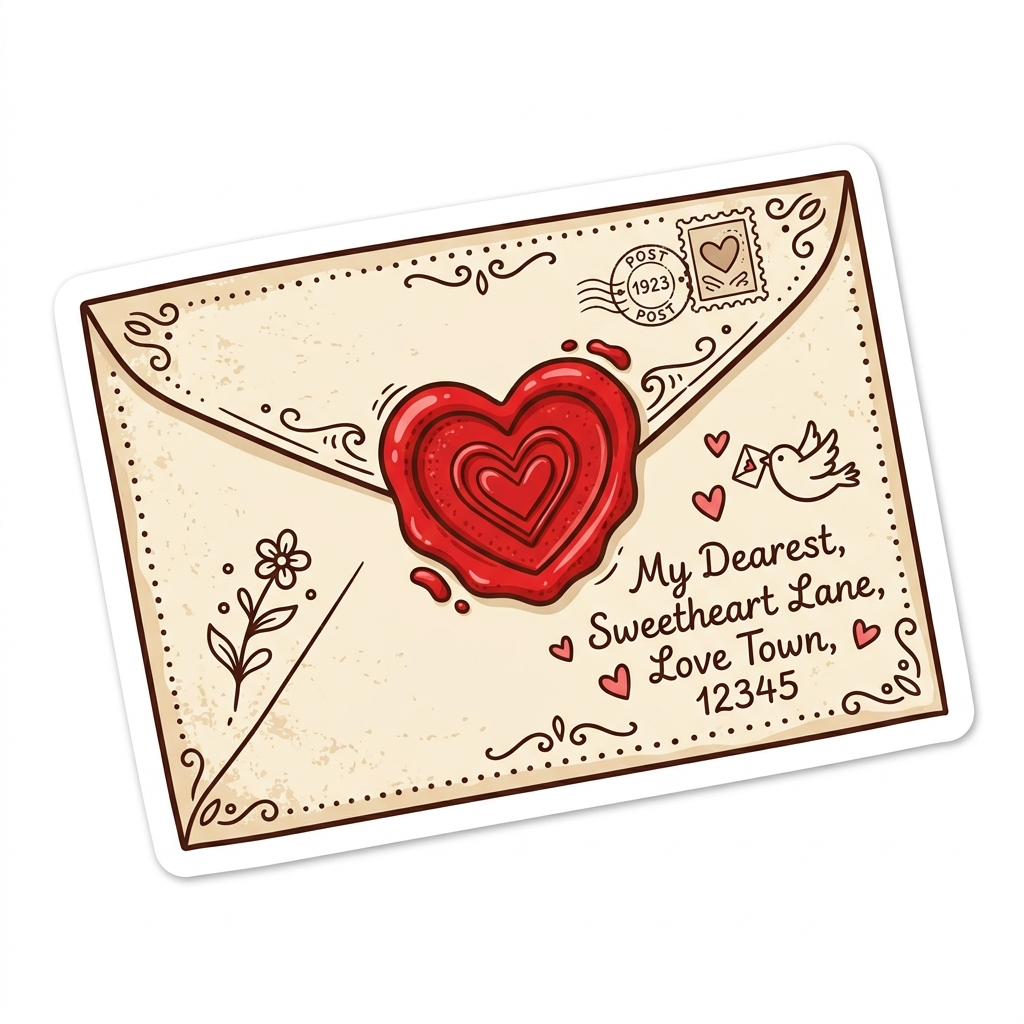
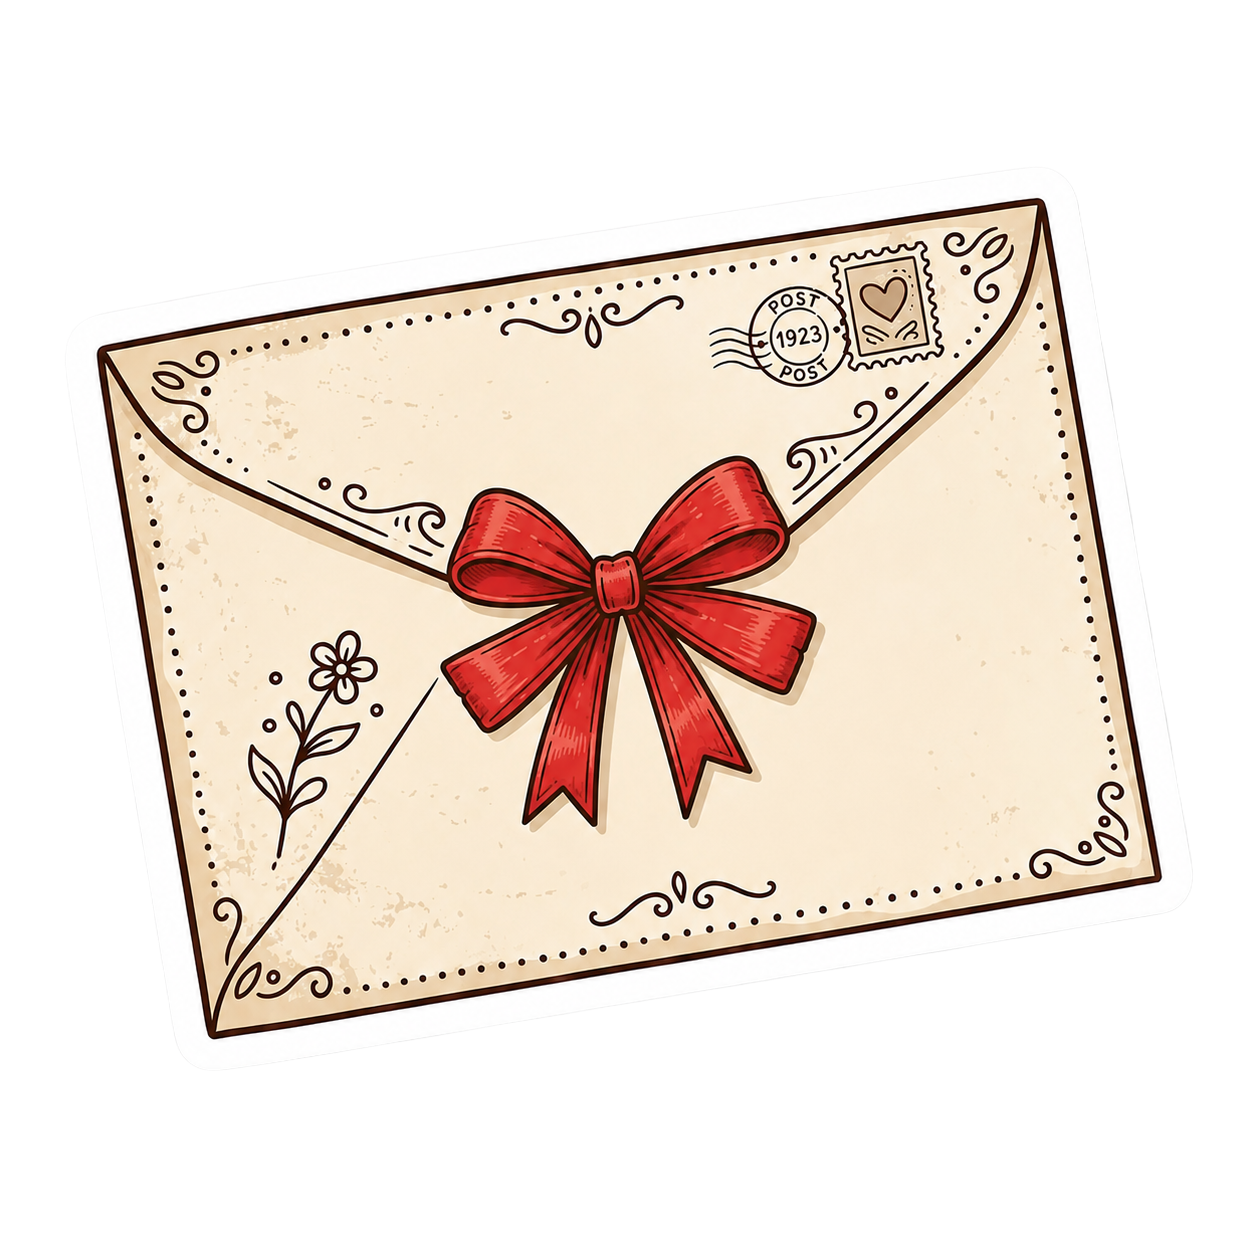
Add files via upload

Changed region(s): [[0.0625, 0.1562, 0.9688, 0.875], [0.2812, 0.7188, 0.3438, 0.75]]

diff --git a/index.html b/index.html
@@ -43,7 +43,7 @@
                 <!-- Added cat_flower sticker -->
                 <div class="welcome-sticker-wrapper bounce-animation">
                     <img src="assets/cat_flower.png" alt="Welcome Cat Flower" class="welcome-cat-sticker">
-                    <span class="tap-hint script-font">Tap meee!!</span>
+                    <span class="tap-hint script-font">Tap me!! I'll play ur fav song✨</span>
                 </div>
 
                 <div class="button-group">
@@ -87,7 +87,7 @@
                             <span class="dot" id="dot-2"></span>
                             <span class="dot" id="dot-3"></span>
                         </div>
-                        <p class="passcode-hint">Hint: Your birth date and month</p>
+                        <p class="passcode-hint">💡: When did you arrive on Earth?</p>
 
                         <!-- Numeric Keypad -->
                         <div class="keypad">
@@ -148,7 +148,7 @@
         <!-- Screen 6: Photo Frame Reveal -->
         <section id="screen-reveal" class="screen">
             <div class="container text-center slide-up">
-                <h2 class="script-font romantic-text">Wow who is this beautiful girl??? 🤩</h2>
+                <h2 class="script-font romantic-text">Wow who is this beautiful girl?? 🫣🤩</h2>
                 
                 <div class="polaroid-outer-container">
                     <div class="polaroid-frame polaroid-tilt-left">
@@ -231,7 +231,7 @@
         <!-- Screen 8: Special Gift Hub -->
         <section id="screen-gifts" class="screen">
             <div class="container text-center slide-up">
-                <h2 class="script-font gift-hub-title">I have a special gift for you 🎁🎁</h2>
+                <h2 class="script-font gift-hub-title">I have a special gift for you 🎁</h2>
                 <p class="instruction-text script-font">Tap on the gift to open </p>
                 
                 <div class="gift-options">
@@ -253,13 +253,13 @@
                 </div>
                 <!-- Special Message Popup Card -->
                 <div class="popup-message hidden" id="special-msg-popup">
-                    <p class="popup-text font-md bold-font">This is for you from my side. Hope you liked this.</p>
-                    <p class="popup-text font-sm script-font">Every memory in this little space was chosen with care, because you mean more than words can explain.</p>
-                    <p class="popup-text font-sm script-font">Thank you for being part of so many beautiful moments. I hope this brought a smile to your face.</p>
+                    <p class="popup-text font-md bold-font">This is for you, from my side. Hope you liked this..</p>
+                    <p class="popup-text font-sm script-font">Every little detail in this space was chosen with care, built from countless texts, shared laughs, and all the random things in between.</p>
+                    <p class="popup-text font-sm script-font">This little space was made to celebrate you and the wonderful person you are.<br>I hope this little corner brings a smile to your face ☺️</br></p>
                 </div>
                 <!-- Restart button -->
                 <div class="restart-wrapper hidden" id="restart-container">
-                    <button class="btn btn-restart" id="btn-restart-app">Restart Experience</button>
+                    <button class="btn btn-restart" id="btn-restart-app">Start Over</button>
                 </div>
             </div>
         </section>
@@ -336,7 +336,7 @@
 
                     <div class="gallery-quote-footer">
                         <p class="script-font quote-text">
-                            "From Plane rides through quiet towns to vacant streets in distant shores our love has left footprints across the world"
+                            🧿 Your kind of magic isn't the one found in fairytales, it's the kind that turns ordinary moments into something worth remembering 🧿<br>Happyy Birthdayyy✨
                         </p>
                     </div>
                 </div>